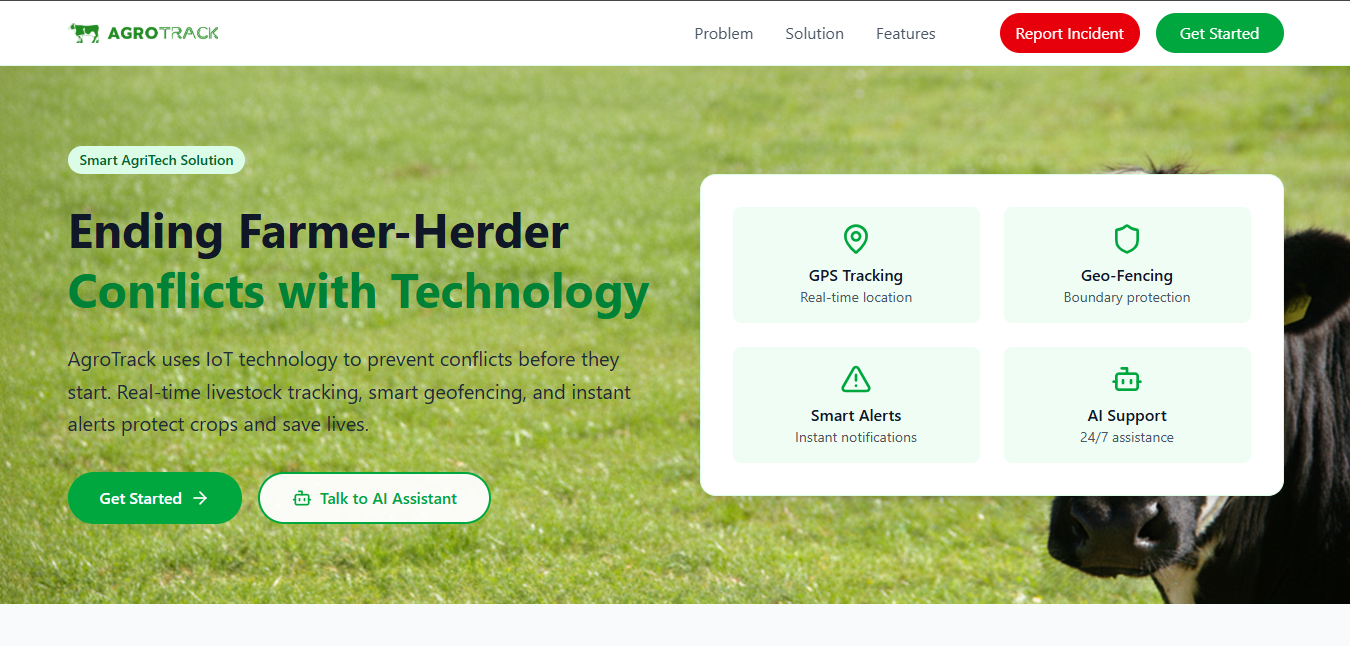
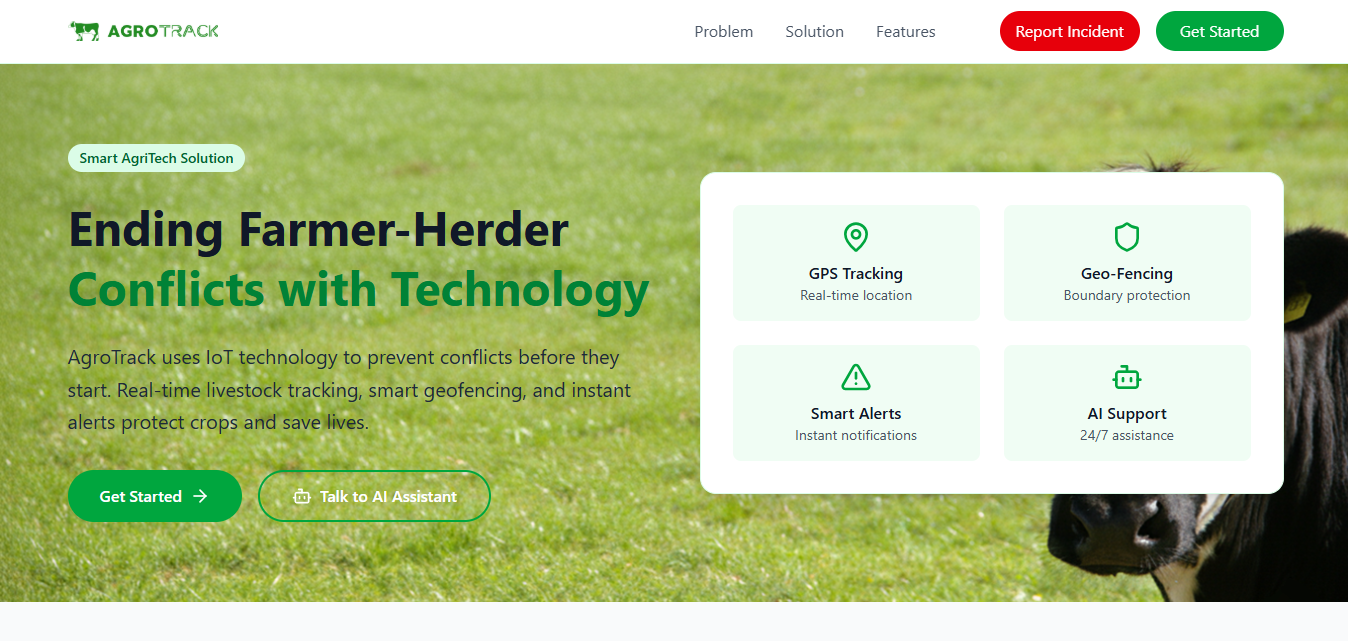
added a lens on the screenshots

diff --git a/components/uilayouts/lens.tsx b/components/uilayouts/lens.tsx
@@ -1,0 +1,128 @@
+"use client";
+
+import { AnimatePresence, motion, useMotionTemplate } from "motion/react";
+import React, { useCallback, useMemo, useRef, useState } from "react";
+
+interface Position {
+  /** The x coordinate of the lens */
+  x: number;
+  /** The y coordinate of the lens */
+  y: number;
+}
+
+interface LensProps {
+  /** The children of the lens */
+  children: React.ReactNode;
+  /** The zoom factor of the lens */
+  zoomFactor?: number;
+  /** The size of the lens */
+  lensSize?: number;
+  /** The position of the lens */
+  position?: Position;
+  /** The default position of the lens */
+  defaultPosition?: Position;
+  /** Whether the lens is static */
+  isStatic?: boolean;
+  /** The duration of the animation */
+  duration?: number;
+  /** The color of the lens */
+  lensColor?: string;
+  /** The aria label of the lens */
+  ariaLabel?: string;
+}
+
+export function Lens({
+  children,
+  zoomFactor = 1.3,
+  lensSize = 170,
+  isStatic = false,
+  position = { x: 0, y: 0 },
+  defaultPosition,
+  duration = 0.1,
+  lensColor = "black",
+  ariaLabel = "Zoom Area",
+}: LensProps) {
+  if (zoomFactor < 1) {
+    throw new Error("zoomFactor must be greater than 1");
+  }
+  if (lensSize < 0) {
+    throw new Error("lensSize must be greater than 0");
+  }
+
+  const [isHovering, setIsHovering] = useState(false);
+  const [mousePosition, setMousePosition] = useState<Position>(position);
+  const containerRef = useRef<HTMLDivElement>(null);
+
+  const currentPosition = useMemo(() => {
+    if (isStatic) return position;
+    if (defaultPosition && !isHovering) return defaultPosition;
+    return mousePosition;
+  }, [isStatic, position, defaultPosition, isHovering, mousePosition]);
+
+  const handleMouseMove = useCallback((e: React.MouseEvent<HTMLDivElement>) => {
+    const rect = e.currentTarget.getBoundingClientRect();
+    setMousePosition({
+      x: e.clientX - rect.left,
+      y: e.clientY - rect.top,
+    });
+  }, []);
+
+  const handleKeyDown = useCallback((e: React.KeyboardEvent) => {
+    if (e.key === "Escape") setIsHovering(false);
+  }, []);
+
+  const maskImage = useMotionTemplate`radial-gradient(circle ${lensSize / 2}px at ${currentPosition.x}px ${currentPosition.y}px, ${lensColor} 100%, transparent 100%)`;
+
+  const LensContent = useMemo(() => {
+    const { x, y } = currentPosition;
+
+    return (
+      <motion.div
+        initial={{ opacity: 0, scale: 0.58 }}
+        animate={{ opacity: 1, scale: 1 }}
+        exit={{ opacity: 0, scale: 0.8 }}
+        transition={{ duration }}
+        className="absolute inset-0 overflow-hidden"
+        style={{
+          maskImage,
+          WebkitMaskImage: maskImage,
+          transformOrigin: `${x}px ${y}px`,
+          zIndex: 50,
+        }}
+      >
+        <div
+          className="absolute inset-0"
+          style={{
+            transform: `scale(${zoomFactor})`,
+            transformOrigin: `${x}px ${y}px`,
+          }}
+        >
+          {children}
+        </div>
+      </motion.div>
+    );
+  }, [currentPosition, lensSize, lensColor, zoomFactor, children, duration]);
+
+  return (
+    <div
+      ref={containerRef}
+      className="relative z-20 overflow-hidden rounded-xl"
+      onMouseEnter={() => setIsHovering(true)}
+      onMouseLeave={() => setIsHovering(false)}
+      onMouseMove={handleMouseMove}
+      onKeyDown={handleKeyDown}
+      role="region"
+      aria-label={ariaLabel}
+      tabIndex={0}
+    >
+      {children}
+      {isStatic || defaultPosition ? (
+        LensContent
+      ) : (
+        <AnimatePresence mode="popLayout">
+          {isHovering && LensContent}
+        </AnimatePresence>
+      )}
+    </div>
+  );
+}

diff --git a/app/page.tsx b/app/page.tsx
@@ -8,6 +8,7 @@ import Link from "next/link";
 import { motion } from "motion/react";
 import ReactLenis from "lenis/react";
 import TechStack from "@/components/uilayouts/techstack";
+import { Lens } from "@/components/uilayouts/lens";
 import campusPadi_logo from "@/assets/campuspadi_logo.png";
 import campuspadi_screenshot from "@/assets/campuspadi-dashboard-screenshot.png";
 import agrotrack_screenshot from "@/assets/agrotrack-landingpage-screenshot.png";
@@ -236,11 +237,13 @@ export default function Home() {
                   </div>
 
                   <div className="p-1 bg-soft-linen/10">
-                    <Image
-                      src={project.image}
-                      alt={`${project.title} screenshot`}
-                      className="w-full h-auto object-cover rounded-lg border border-khaki-beige/10"
-                    />
+                    <Lens zoomFactor={1.4} lensSize={150}>
+                      <Image
+                        src={project.image}
+                        alt={`${project.title} screenshot`}
+                        className="w-full h-auto object-cover rounded-lg border border-khaki-beige/10"
+                      />
+                    </Lens>
                   </div>
                 </div>
 